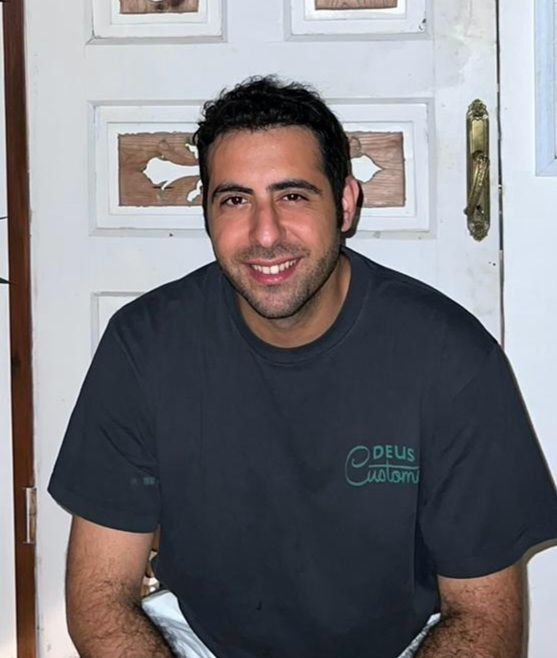
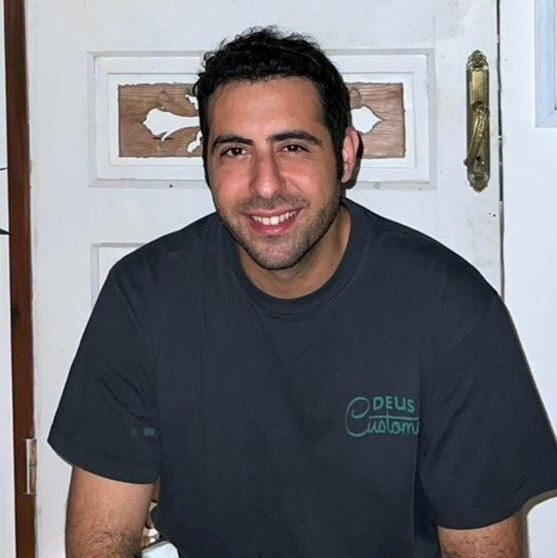
image crop

diff --git a/index.html b/index.html
@@ -509,7 +509,7 @@
                         <div class="speakerCompany">dYdX Foundation</div>
                     </a>
                     <a href="https://www.linkedin.com/in/selim-kender-65b5b2/" target="_blank" class="singleSpeaker">
-                        <img class="speakerImg" src="images/selimk.jpeg" alt="" srcset="" />
+                        <img class="speakerImg" src="images/selimkv.jpg" alt="" srcset="" />
                         <div class="speakerName">Selim Kender</div>
                         <div class="speakerCompany">Ava Labs</div>
                     </a>
